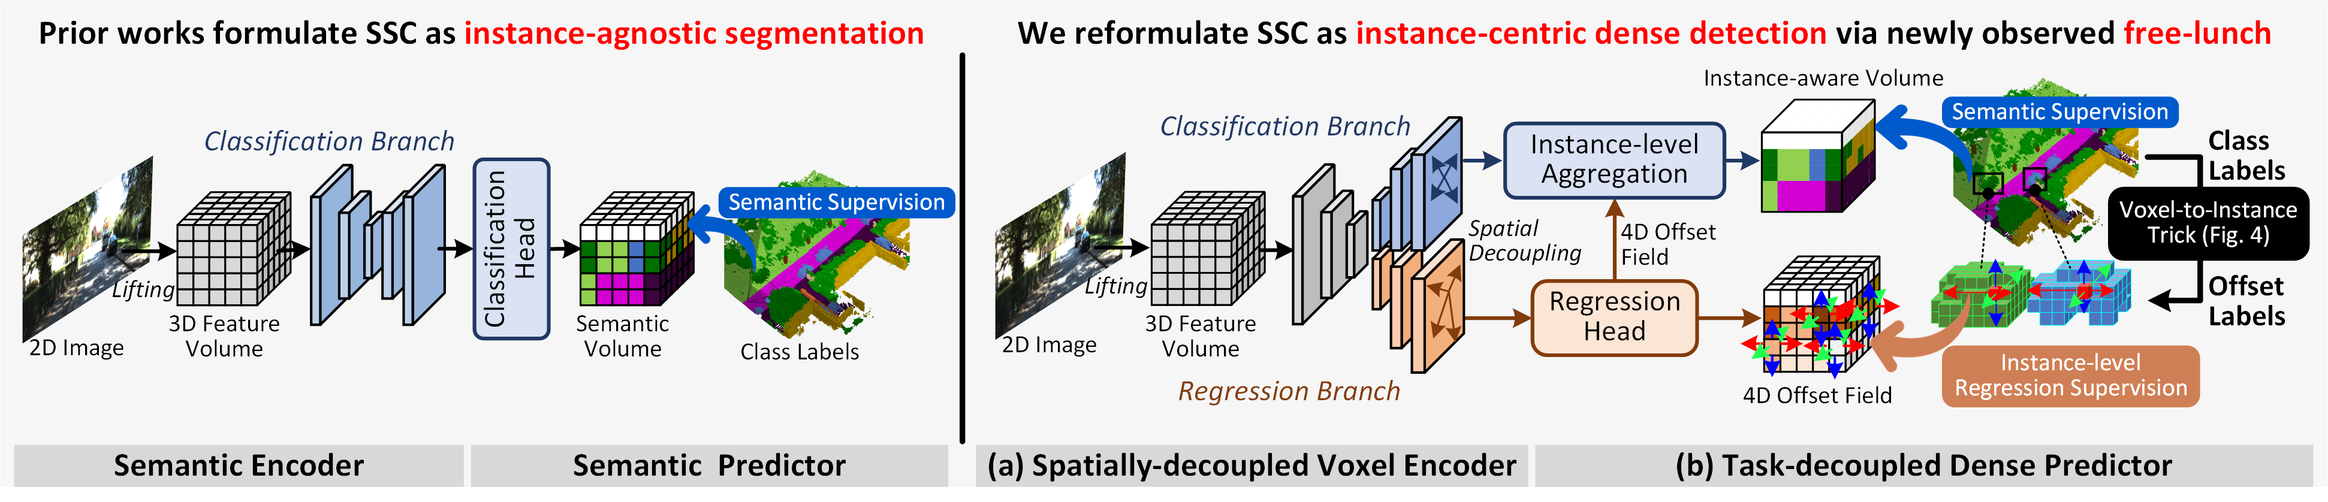
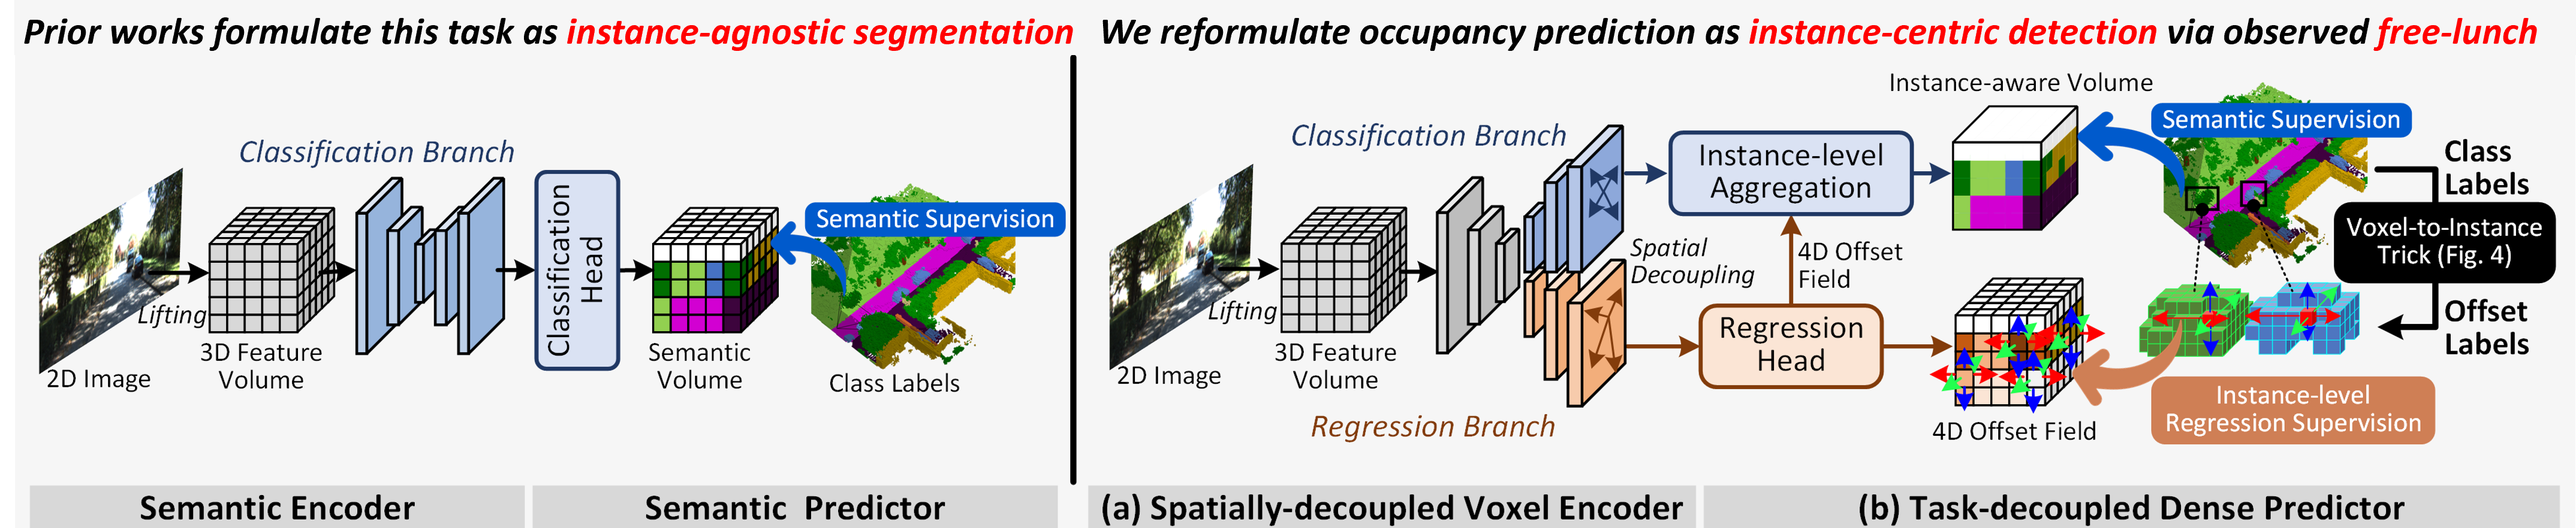
update readme

diff --git a/README.md b/README.md
@@ -1,30 +1,34 @@
-# [ArXiv 25] VoxDet: Rethinking 3D Semantic Scene Completion as Dense Object Detection
+# [ArXiv 25] VoxDet: Rethinking 3D Semantic Occupancy Prediction as Dense Object Detection
 
+### [[Project Page]](https://vita-epfl.github.io/VoxDet/)  [[Paper (Comming)]]()
 
-### [[Project Page]](https://vita-epfl.github.io/VoxDet/)  [[Paper (Comming)]]()  
+📌 This is an official PyTorch implementation of the work:
 
-📌 This is an official PyTorch implementation of VoxDet: Rethinking 3D Semantic Scene Completion as Dense Object Detection
+> [**VoxDet: Rethinking 3D Semantic Occupancy Prediction as Dense Object Detection**]() `<br>`
+> [Wuyang Li `<sup>`1 `</sup>`](https://wymancv.github.io/wuyang.github.io/), [Zhu Yu `<sup>`2 `</sup>`](), [Alexandre Alahi `<sup>`1 `</sup>`](https://scholar.google.com/citations?user=UIhXQ64AAAAJ&hl=en) `<br><sup>`1 `</sup>` École Polytechnique Fédérale de Lausanne (EPFL); `<sup>`2 `</sup>` Zhejiang University
 
-> [**VoxDet: Rethinking 3D Semantic Scene Completion as Dense Object Detection**]()<br>
-> [Wuyang Li<sup>1</sup>](https://wymancv.github.io/wuyang.github.io/), [Zhu Yu<sup>2</sup>](), [Alexandre Alahi<sup>1</sup>](https://scholar.google.com/citations?user=UIhXQ64AAAAJ&hl=en)<br><sup>1</sup> École Polytechnique Fédérale de Lausanne (EPFL); <sup>2</sup> Zhejiang University
- 
 <div align="center">
     <img width="100%" alt="VoxDet overview" src="assets/introduction.png"/>
 </div>
+
+
+Code is coming soon! We’re currently cleaning up the code and unifying the camera- and LiDAR-based implementations into a single project, which serves as a powerful, clean, and extensible baseline model for the community.
+
+If you can’t wait for the official release, feel free to contact me for the individual implementations.
 
 Contact: [wuyang.li@epfl.ch](mailto:wuyang.li@epfl.ch)
 
 ## ✨ Highlight
 
-*VoxDet* address SSC with an instance-centric formulation inspried by dense object detection, which uses a *Voxel-to-Instance (VoxNT)* trick freely transferring voxel-level class labels to instance-level offset labels. More details can be found in our [[Project Page]](https://vita-epfl.github.io/VoxDet/).
+*VoxDet* address semantic occupancy prediction with an instance-centric formulation inspried by dense object detection, which uses a *Voxel-to-Instance (VoxNT)* trick freely transferring voxel-level class labels to instance-level offset labels.
 
-- Versatile: Adaptable to various voxel-based scenarios, such as camera and LiDAR applications.
-- Powerful: Achieves state-of-the-art on both camera-based and LiDAR-based SSC benchmarks.
-- Efficient: Fast (~1.3× speed-up) and lightweight (reducing ~57.9% parameters).
-- Leaderboard Topper: Achieving 63.0 IoU (single-frame model), securing 1st place on the SemanticKITTI leaderboard.
-
+- **Versatile**: Adaptable to various voxel-based scenarios, such as <span style="color:red">camera and LiDAR</span> settings.
+- **Powerful**: Achieves <span style="color:red">joint state-of-the-art</span> on both camera-based and LiDAR-based SSC benchmarks.
+- **Efficient**: <span style="color:red">Fast</span> (~1.3× speed-up) and <span style="color:red">Fast</span>lightweight</span> (reducing ~57.9% parameters).
+- **Leaderboard Topper**: <span style="color:red">Achieves <span style="color:red">63.0 IoU</span> (single-frame model), securing <span style="color:red">1st</span> place on the SemanticKITTI leaderboard.</span>
 
 Note that VoxDet is single-frame single-model method without extra data and labels.
+
 <div align="center">
     <img width="100%" alt="VoxDet overview" src="assets/leaderboard.png"/>
 </div>
@@ -32,19 +36,20 @@ Note that VoxDet is single-frame single-model method without extra data and labe
 ## 🙏 Acknowledgement
 
 Greatly appreciate the tremendous effort for the following projects!
-- [FCOS: Fully Convolutional One-Stage Object Detection](https://arxiv.org/abs/1904.01355) 
+
+- [FCOS: Fully Convolutional One-Stage Object Detection](https://arxiv.org/abs/1904.01355)
 - [Context and Geometry Aware Voxel Transformer for Semantic Scene Completion](https://arxiv.org/abs/2405.13675)
 - [SIGMA: Semantic-complete Graph Matching For Domain Adaptive Object Detection](https://arxiv.org/abs/2203.06398)
 - [Revisiting the Sibling Head in Object Detector](https://arxiv.org/abs/2003.07540)
 - [VoxFormer: a Cutting-edge Baseline for 3D Semantic Occupancy Prediction](https://arxiv.org/abs/2302.12251)
 
 ## 📋 TODO List
+
 - [ ] Release the paper
-- [ ] Release all code, including both camera-based and LiDAR-based implementation
+- [ ] Release all unified codebase, including both camera-based and LiDAR-based implementation
 - [ ] Release all models
 
-
-##  📚Citeation
+## 📚Citeation
 
 <div align="center">
     <img width="100%" alt="VoxDet overview" src="assets/overall.png"/>
@@ -54,13 +59,9 @@ If you think our work is helpful for your project, I would greatly appreciate it
 
 ```bibtex
 @article{li2025voxdet,
-  title={VoxDet: Rethinking 3D Semantic Scene Completion as Dense Object Detection},
+  title={VoxDet: Rethinking 3D Semantic Occupancy Prediction as Dense Object Detection},
   author={Li, Wuyang and Yu, Zhu and Alahi, Alexandre},
   journal={arXiv preprint},
   year={2025}
 }
 ```
-
-
-
-
